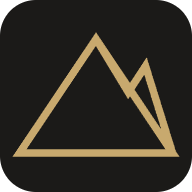
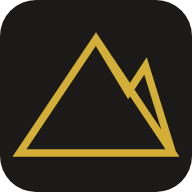
orOS mark in the skin gold #d4af37
Christos decided (2026-10-31) that the orOS logo follows the skin gold
#d4af37; the older logo gold #c8a96e is retired. The settings page icon,
the Linux and Android launcher icons and the Windows .ico are rendered
again from orOS's icon.svg (16/24/32 px with a thicker stroke), and the
tray's reversed mark uses the new gold.

Claude-Session: https://claude.ai/code/session_01YL6AbictCgCuRS3ybMSRBa

diff --git a/app/tray.go b/app/tray.go
@@ -179,7 +179,7 @@ func trayIcon(kind string) []byte {
 // The two colours of the orOS mark (web/icon.png).
 var (
 	markDark = color.NRGBA{0x1b, 0x1a, 0x18, 0xff}
-	markGold = color.NRGBA{0xc8, 0xa9, 0x6e, 0xff}
+	markGold = color.NRGBA{0xd4, 0xaf, 0x37, 0xff}
 )
 
 // reverse swaps the mark's two colours, keeping the soft edges between
